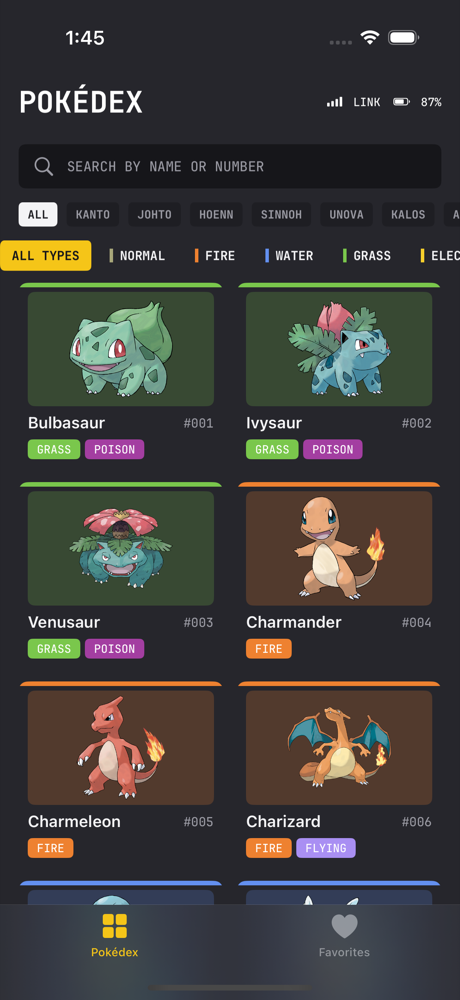
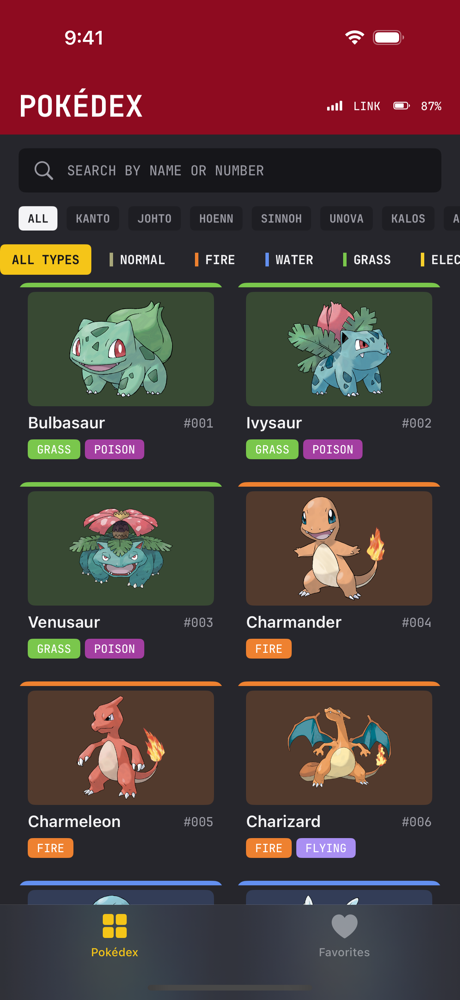
docs(readme): describe locations by region and refresh the screenshots [DOST-1594]
Screenshots taken with live PokéAPI data in light and dark mode, with the fixed header title. Adds a Locations by region row and notes the HTTP/3 fallback.

diff --git a/README.md b/README.md
@@ -11,7 +11,8 @@ A Pokédex for iOS built with SwiftUI and Swift 6 on top of [PokéAPI](https://p
 - **Detail.** Each Pokémon's page shows:
   - Artwork, types, height and weight, and base stats.
   - Weaknesses (combined for dual types) and the evolution chain, whose stages can be tapped.
-  - Where to find it in the games, and its cry on iOS 18.4 or later.
+  - Where to find it in the games, grouped by region (Kanto, Johto, Hoenn…) and listing the games of each area.
+  - Its cry, on iOS 18.4 or later.
   - Each section loads on its own and can be retried on its own.
 - **Favorites.** Save a Pokémon from its detail screen and find it in the Favorites tab. The tab works offline. Swipe a card to remove it.
 - **Splash.** A short intro video, with light and dark versions. It is skipped when Reduce Motion is on.
@@ -20,6 +21,7 @@ A Pokédex for iOS built with SwiftUI and Swift 6 on top of [PokéAPI](https://p
 |---|---|---|
 | List | <img src="docs/list-light.png" width="250" alt="List, light mode"> | <img src="docs/list-dark.png" width="250" alt="List, dark mode"> |
 | Detail | <img src="docs/detail-light.png" width="250" alt="Detail, light mode"> | <img src="docs/detail-dark.png" width="250" alt="Detail, dark mode"> |
+| Locations by region | <img src="docs/locations-light.png" width="250" alt="Locations grouped by region, light mode"> | <img src="docs/locations-dark.png" width="250" alt="Locations grouped by region, dark mode"> |
 
 ## Requirements
 
@@ -87,6 +89,8 @@ Data           PokeAPIService, DTOs and mappers (Services/), SwiftData stores (P
   - It also deduplicates requests in flight: a second caller for the same URL awaits the first request.
   - When every caller of a request has been cancelled, for example cards scrolled off screen, the request is cancelled too.
   - Artwork and HTTP responses also go through a larger `URLCache`, on disk.
+- **Locations by region.** PokéAPI has no direct link from a location area to its region, so each area is resolved in two steps (location area → location → region). The lookups run at low priority so they never delay the rest of the detail screen, and resolved regions are cached and shared by every detail screen. Areas whose region cannot be resolved go to an "Unknown" group.
+- **HTTP/3 stalls.** PokéAPI is served over HTTP/3, and some networks drop QUIC packets right after the handshake: every request then hangs until it times out. The client uses its own `URLSession` with a 15 s timeout, and after the first stall it moves to a second session limited to TLS 1.2. QUIC needs TLS 1.3, so that session stays on HTTP/2 over TCP. Stalled GETs are retried once on it. Both sessions share the disk cache.
 - **Request limiter.** At most four requests run at once, and a free slot goes to the waiting request with the highest task priority.
   - Card types load at `.utility` priority, so the detail screen never waits behind dozens of cards.
   - This took the detail screen from about 30 s to about 2 s on a slow connection.
